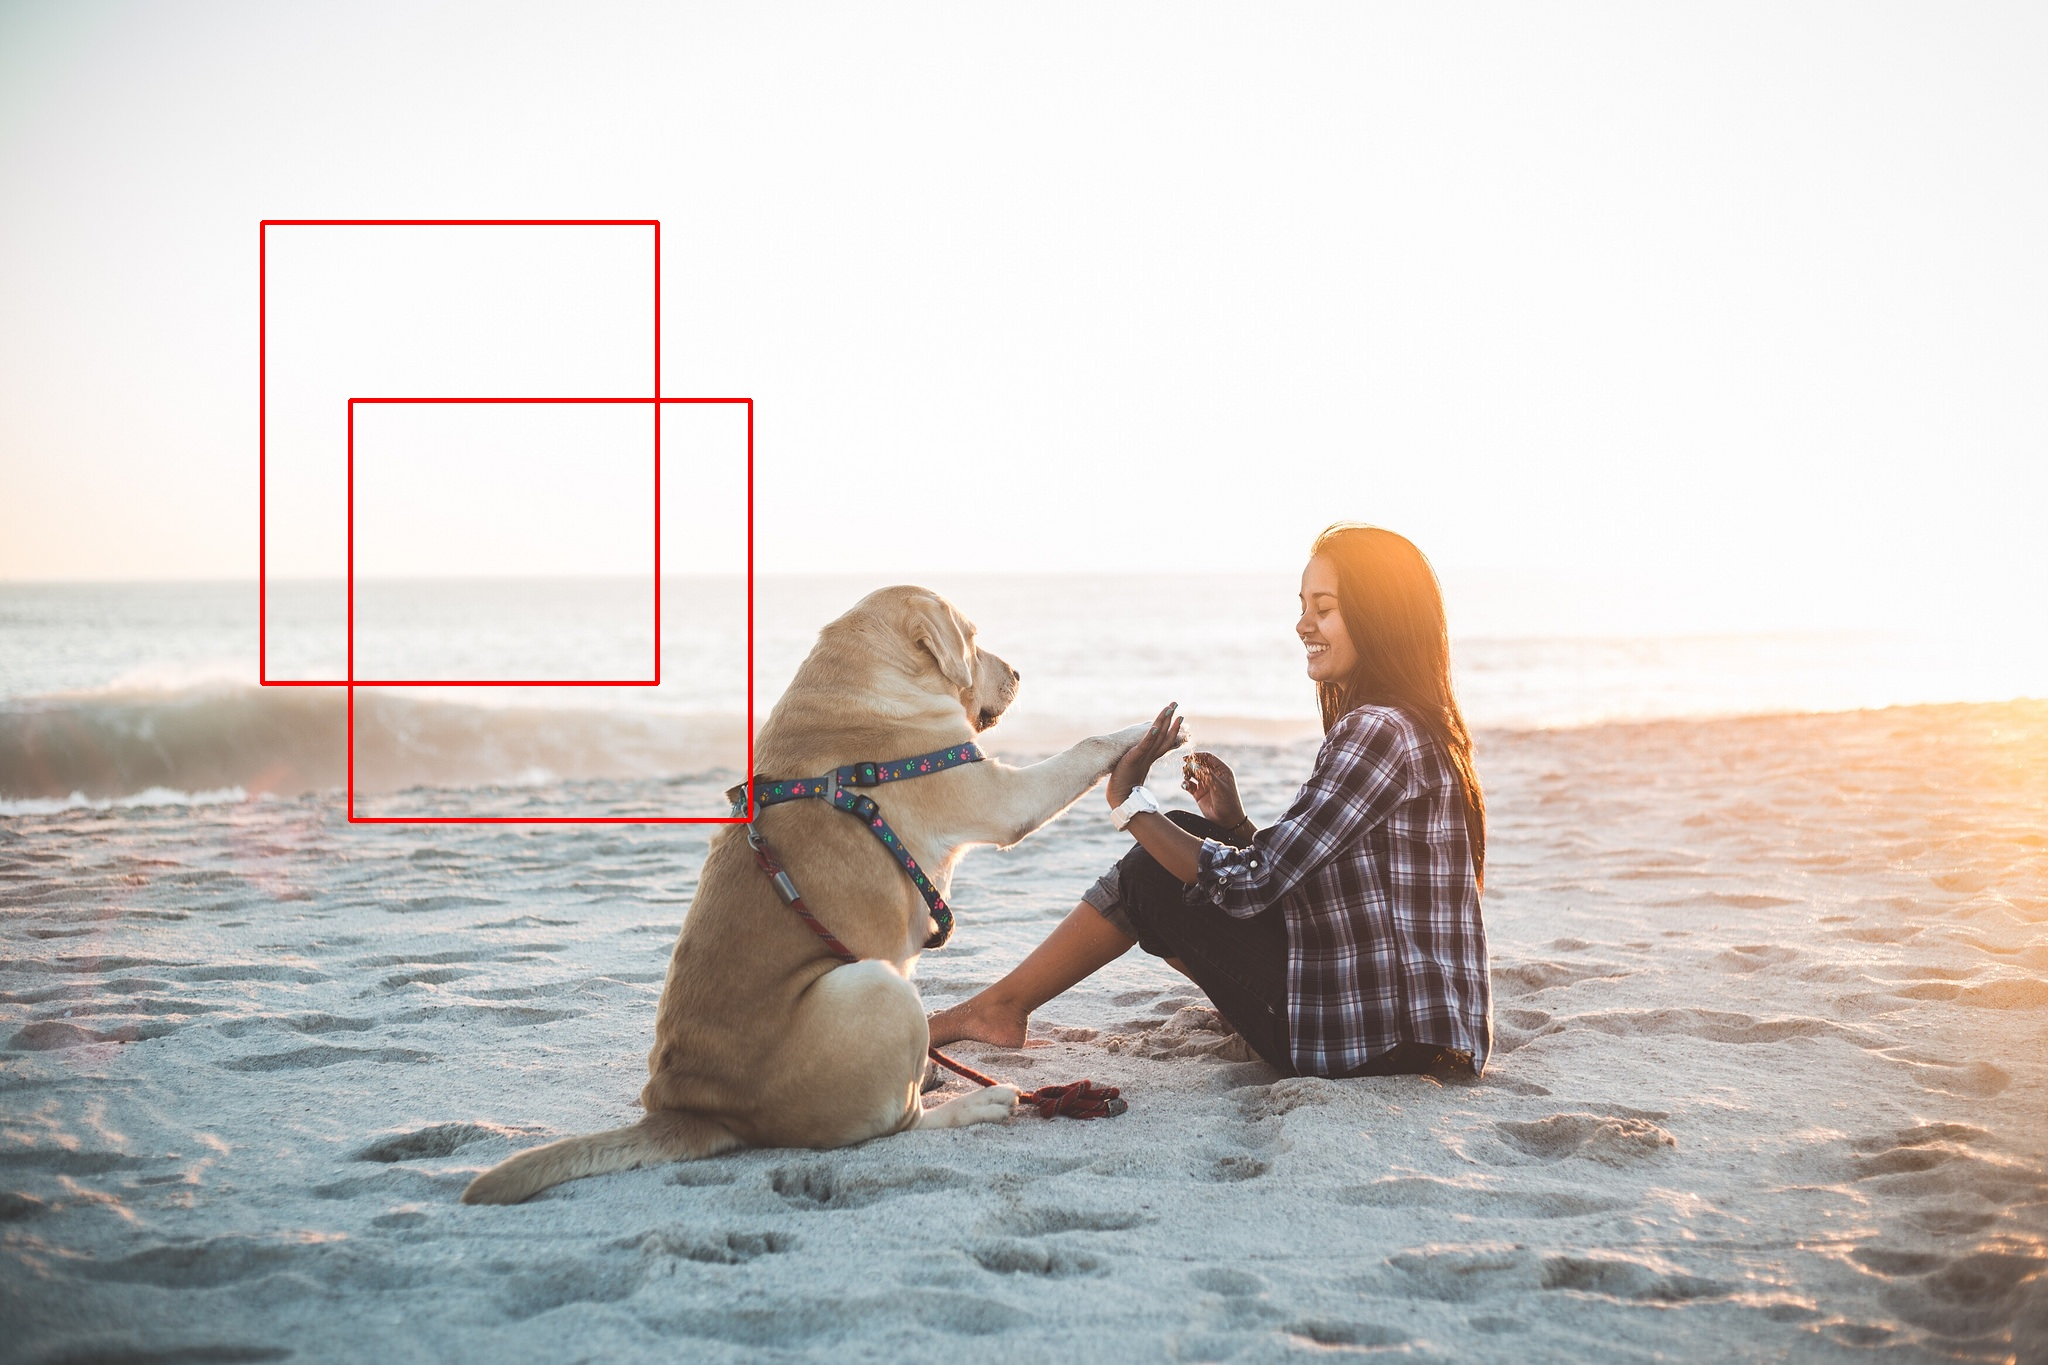
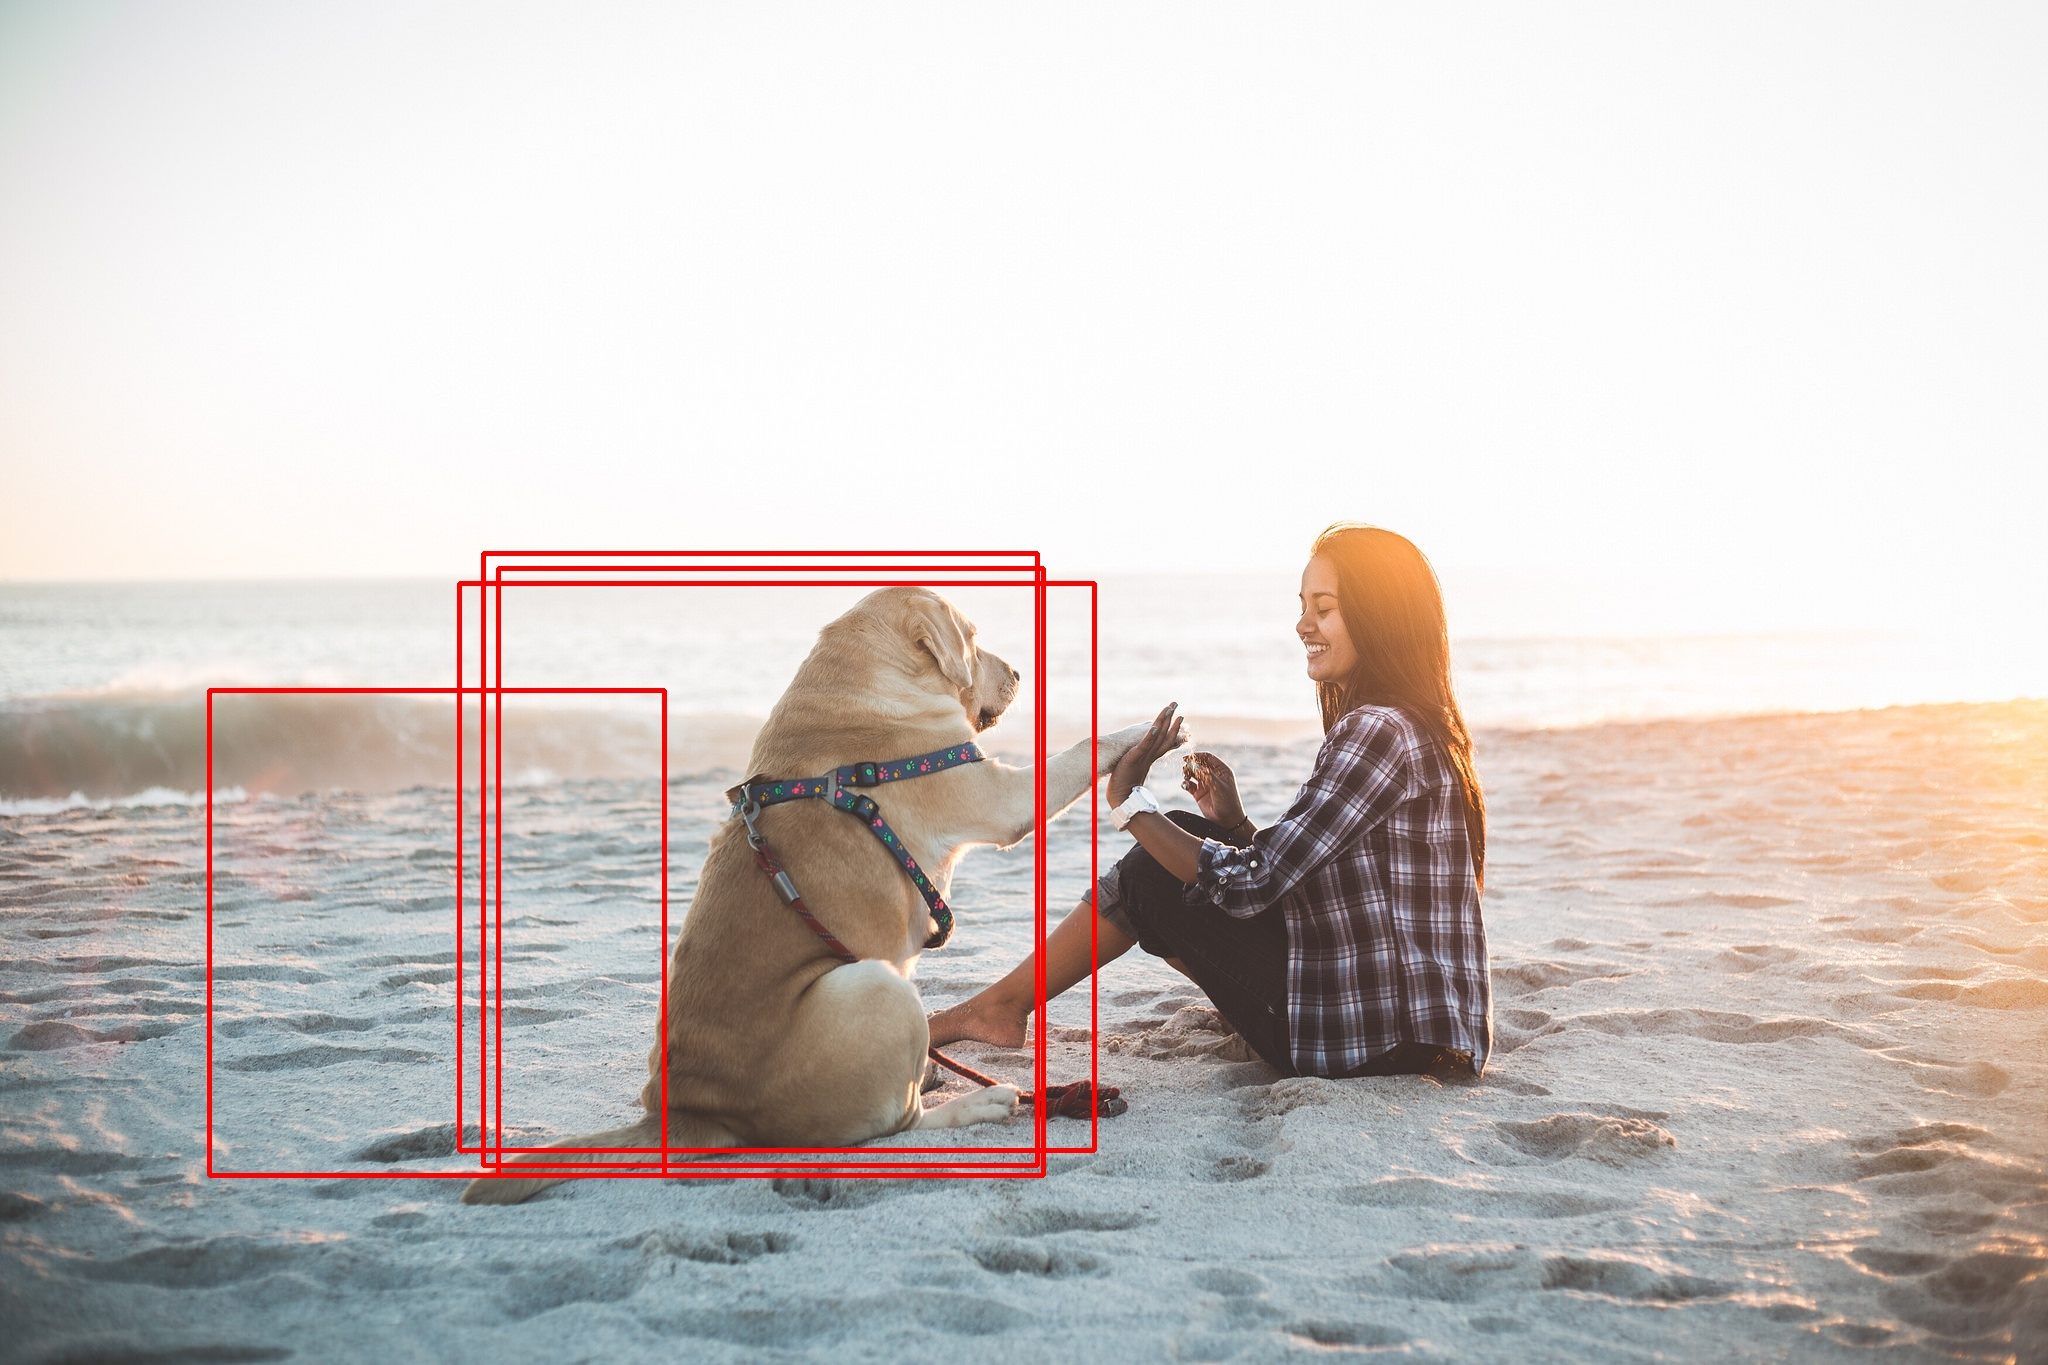
add grounding result

diff --git a/grounding/utils.py b/grounding/utils.py
@@ -1,5 +1,4 @@
 import base64
-
 import cv2
 
 
@@ -10,14 +9,16 @@ def encode_image(image_path):
 
 
 def visulize(image_path, xyxy=[[243, 416], [509, 860]]):
-    xyxy_list = [[[262, 222], [657, 683]],
-                 [[350, 400], [750, 820]]]
+    xyxy_list = [[[102, 505], [324, 860]],
+    [[236, 405], [506, 853]],
+    [[224, 427], [534, 842]],
+    [[243, 416], [509, 860]]]
     img = cv2.imread(image_path)
 
     img_w, img_h = img.shape[1], img.shape[0]
     scale_w = img_w / 999  ## 注意yi-vision模型的输出 需要用缩放因子999 进行处理  https://github.com/01-ai/Yi/issues/376
     scale_h = img_h / 999
-    scale_w, scale_h = 1, 1
+    # scale_w, scale_h = 1, 1
 
     for xyxy in xyxy_list:
         start_x_min = int(xyxy[0][0] * scale_w)
@@ -27,7 +28,7 @@ def visulize(image_path, xyxy=[[243, 416], [509, 860]]):
 
         img = cv2.rectangle(img, (start_x_min, start_y_min), (end_x_min, end_y_min), [0, 0, 255], thickness=3)
 
-    cv2.namedWindow('image', flags=cv2.WINDOW_NORMAL | cv2.WINDOW_KEEPRATIO | cv2.WINDOW_GUI_EXPANDED)
+    cv2.namedWindow('image', flags = cv2.WINDOW_NORMAL |cv2.WINDOW_KEEPRATIO |cv2.WINDOW_GUI_EXPANDED)
     cv2.imshow("image", img)
 
     # 等待按下任意键
@@ -36,7 +37,7 @@ def visulize(image_path, xyxy=[[243, 416], [509, 860]]):
     # 关闭窗口
     cv2.destroyAllWindows()
 
-    cv2.imwrite("./result/gpt-4o.jpg", img)
+    cv2.imwrite("./result/yi_vision.jpg", img)
 
 
 if __name__ == "__main__":
